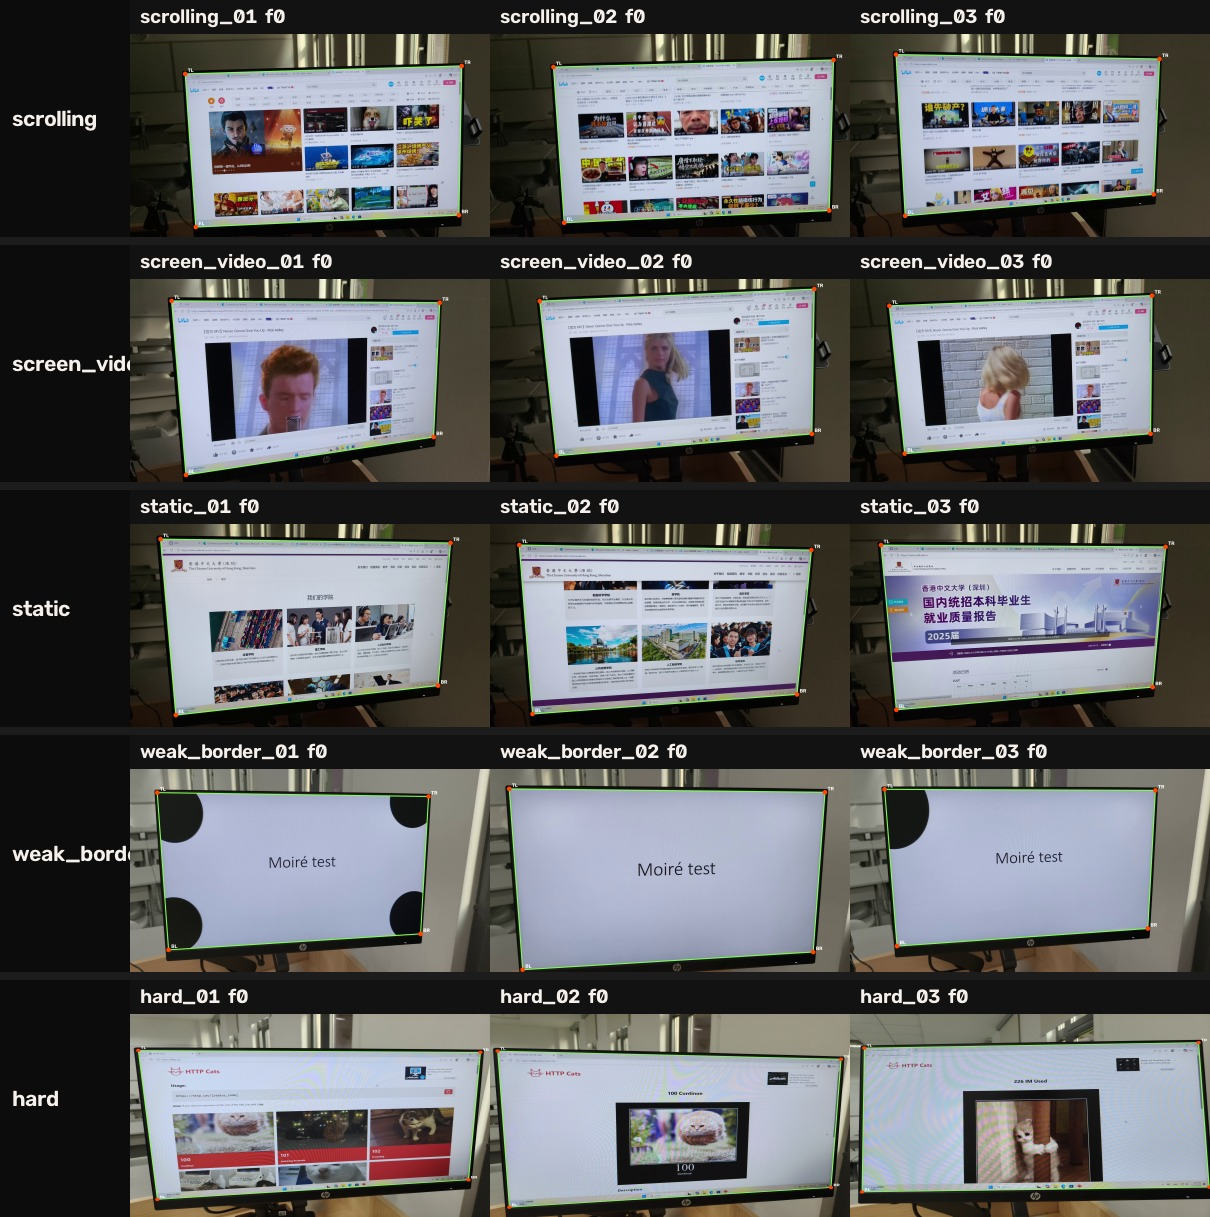
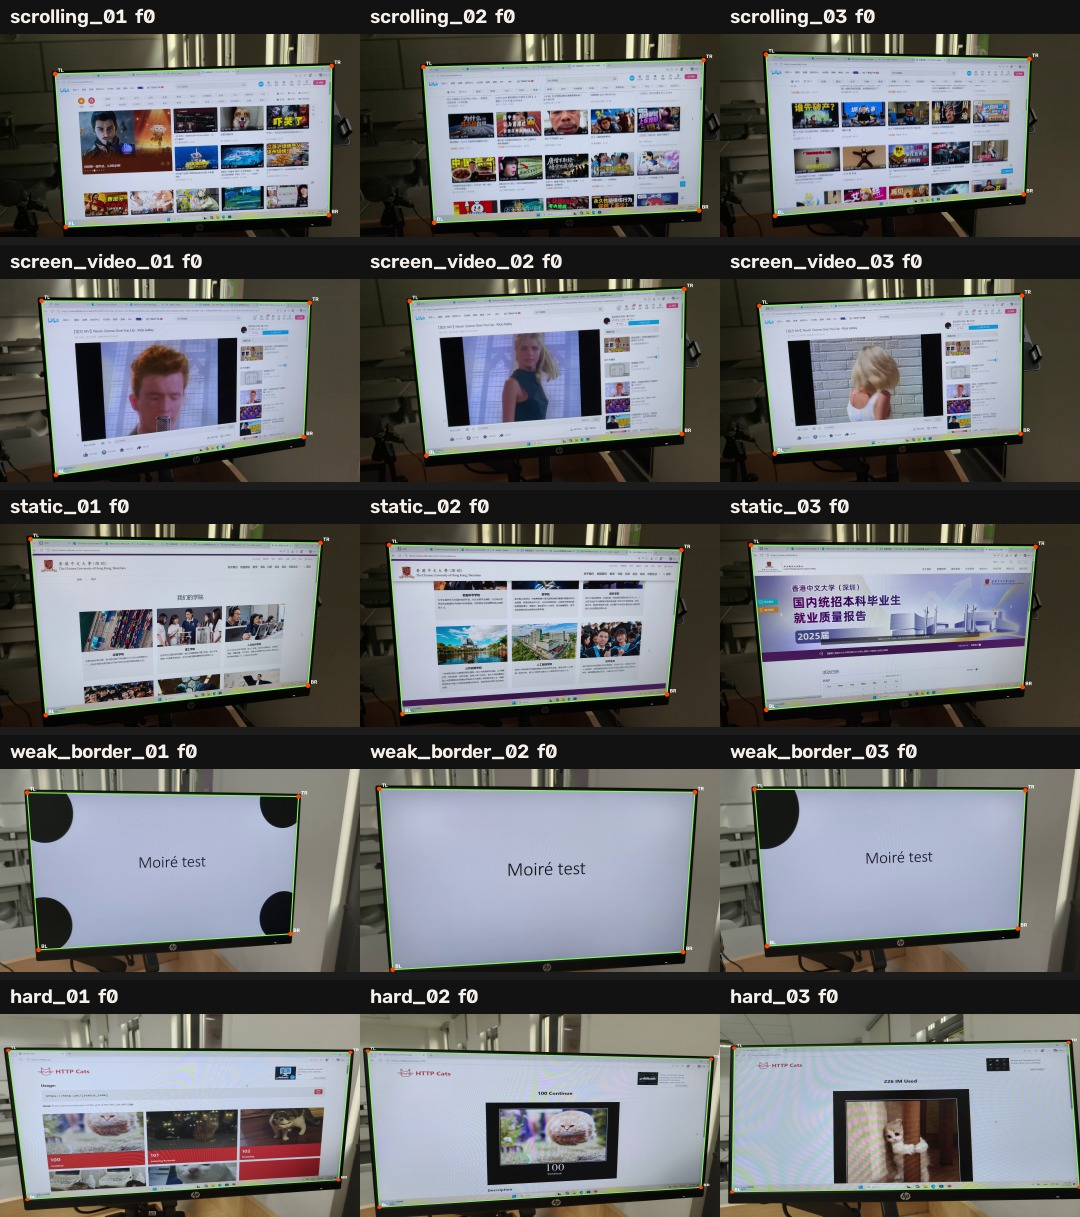
figures: remove dataset mosaic row labels

diff --git a/scripts/paper/build_dataset_mosaic.py b/scripts/paper/build_dataset_mosaic.py
@@ -18,7 +18,6 @@ SAMPLES_PER_CATEGORY = 3
 IMAGE_EXTENSIONS = {".jpg", ".jpeg", ".png"}
 VIDEO_EXTENSIONS = {".mp4"}
 THUMB_SIZE = (360, 203)
-ROW_LABEL_WIDTH = 130
 TITLE_HEIGHT = 34
 PADDING = 8
 
@@ -172,9 +171,8 @@ def build_mosaic(input_dir: Path) -> tuple[np.ndarray, list[dict[str, object]]]:
                 }
             )
 
-        row = np.full((tile_height, ROW_LABEL_WIDTH + len(tiles) * THUMB_SIZE[0], 3), 12, np.uint8)
-        cv2.putText(row, category, (12, tile_height // 2 + 8), cv2.FONT_HERSHEY_SIMPLEX, 0.75, (235, 240, 245), 2, cv2.LINE_AA)
-        x = ROW_LABEL_WIDTH
+        row = np.full((tile_height, len(tiles) * THUMB_SIZE[0], 3), 12, np.uint8)
+        x = 0
         for tile in tiles:
             row[:, x : x + THUMB_SIZE[0]] = tile
             x += THUMB_SIZE[0]
